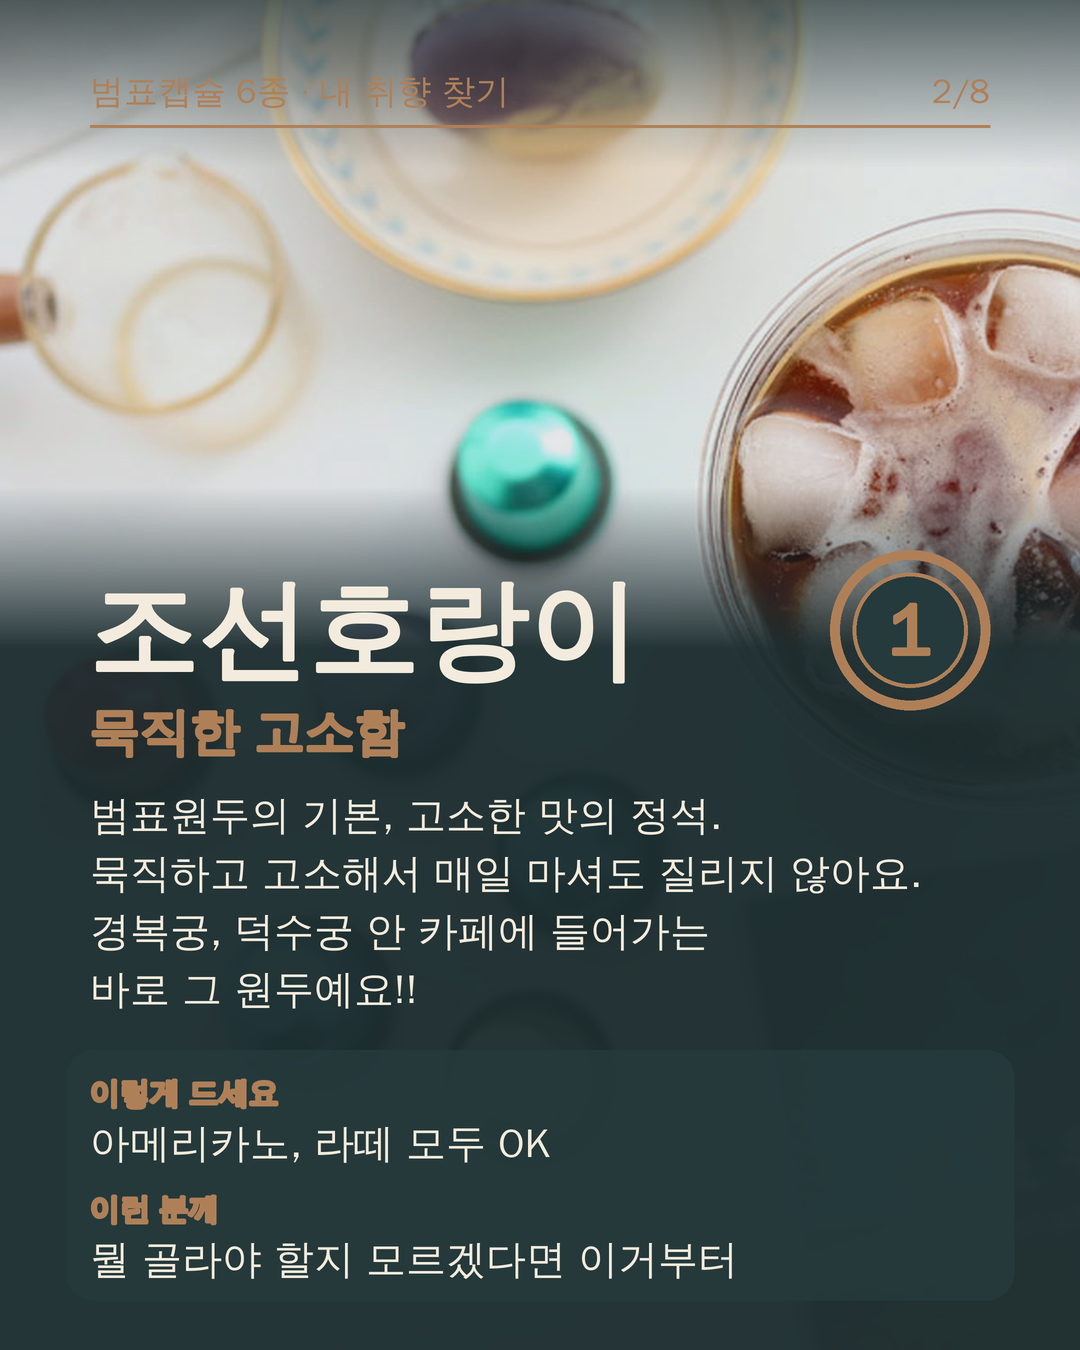
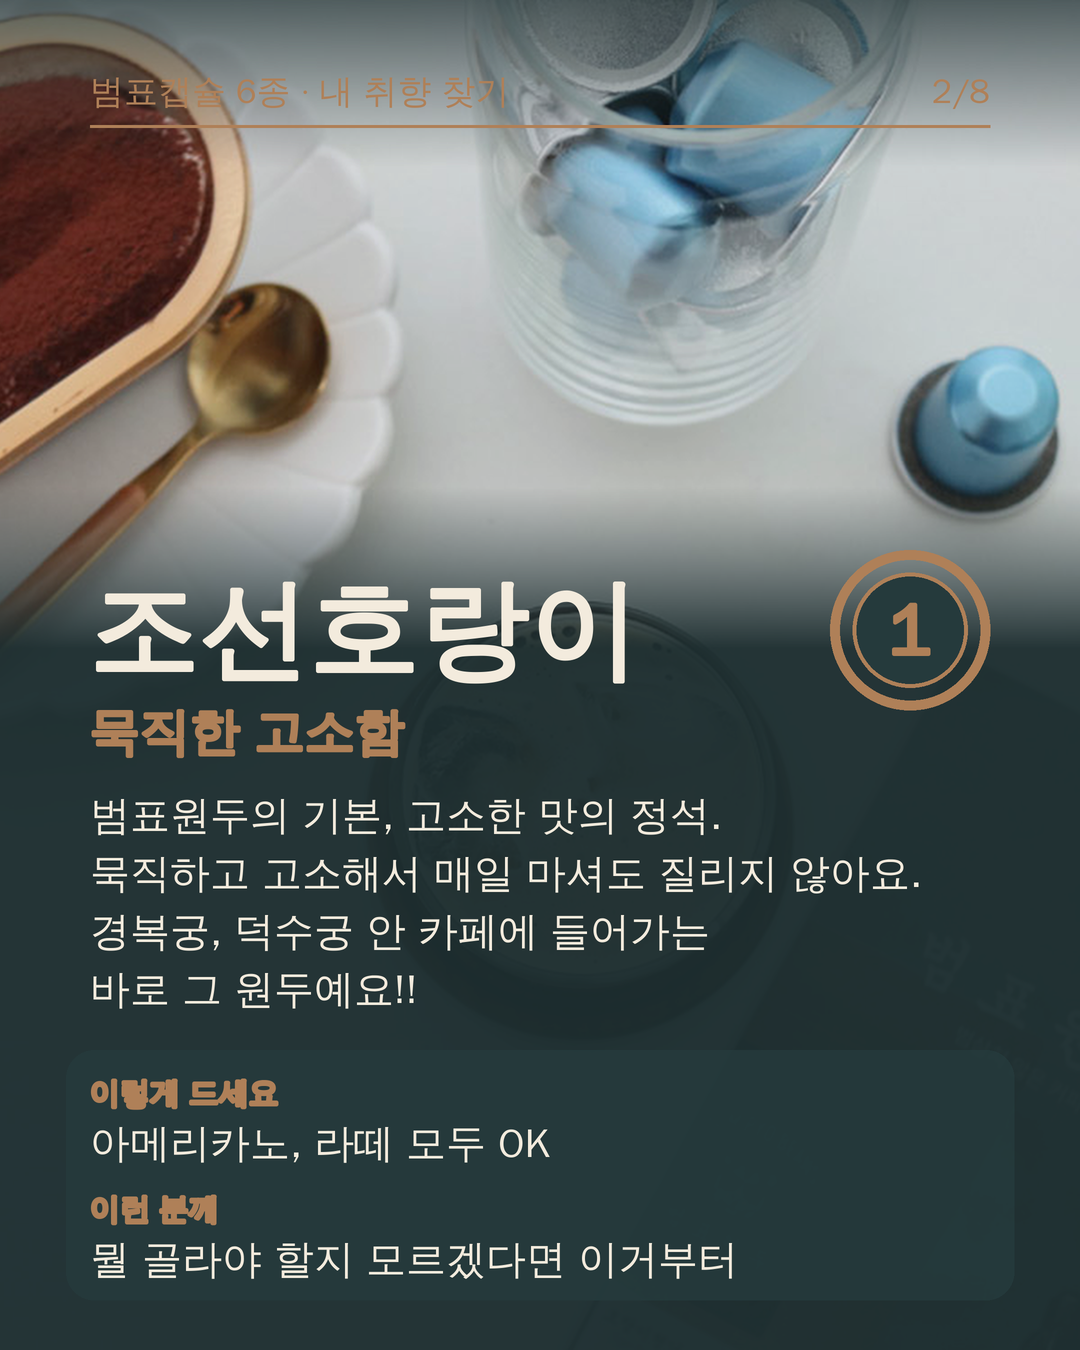
Match carousel photos to capsule colours (green Yeoksam, purple India)
Claude-Session: https://claude.ai/code/session_015nkFFMbZZ1pWpapoeisJCN

Changed region(s): [[0.0, 0.0, 1.0, 0.4667]]

diff --git a/series-covers/make_capsule_carousel.py b/series-covers/make_capsule_carousel.py
@@ -7,8 +7,16 @@ from PIL import Image, ImageDraw, ImageFilter, ImageFont, ImageOps
 OUT = Path(sys.argv[1])
 PHOTOS = Path(sys.argv[2]) if len(sys.argv) > 2 else None   # folder with 9.jpg ... 13.jpg
 # (photo, horizontal focus 0..1) per slide; None keeps the plain background
-BACKS = [("9.jpg", 0.55), ("9.jpg", 0.2), ("10.jpg", 0.5), ("13.jpg", 0.5),
-         ("12.jpg", 0.55), ("9.jpg", 0.85), ("11.jpg", 0.45), ("13.jpg", 0.3)]
+# capsule colours: 역삼동호랑이 = green, 인도호랑이 = purple. Other slides avoid
+# showing a green or purple capsule so no colour points at the wrong flavour.
+BACKS = [("9.jpg", 0.5),            # cover: all colours
+         ("11.jpg", 0.5),           # 조선호랑이
+         ("9.jpg", 0.0),            # 역삼동호랑이: green capsule + iced americano
+         ("11.jpg", 0.0),           # 범프레소: tiramisu
+         ("12.jpg", 1.0),           # 호랑이형님: no capsule in view
+         ("10.jpg", 0.25),          # 인도호랑이: purple capsule + espresso
+         ("10.jpg", 1.0),           # 디카페인: no capsule in view
+         ("13.jpg", 0.3)]           # pick list, blurred
 FONT = "/usr/share/fonts/truetype/wqy/wqy-zenhei.ttc"
 S = 2
 W, H = 1080 * S, 1350 * S

diff --git a/.claude/instagram/voice.md b/.claude/instagram/voice.md
@@ -107,7 +107,7 @@
   - **별내 하나로마트점** (경기 남양주): 연중무휴. 주차 250대, 음료 구매 시 2시간 무료. 매일 10:00–19:00
   - **다산 정약용도서관점** (경기 남양주): 가맹 1호점. 월–금 08:00–19:00, 토·일·공휴일 10:00–19:00 (주말 정상 영업)
   - **수서역점** (서울 강남구): 밤고개로1길 10 1층 현대벤처빌 116-2호. 11/16 오픈 (가오픈 없음). 계정 @bumpyobeans_suseo. 평일 07:00–20:00, 주말 09:00–20:00.
-- **범표캡슐 6종** (알루미늄 캡슐): 조선호랑이(묵직한 고소함. 경복궁·덕수궁 안 카페 납품 원두와 같은 블렌드), 역삼동호랑이(예가체프, 산뜻한 산미. 모닝 캡슐머신 담당자 최애), 범프레소(다크 로스팅 · 다크초콜릿 · 카카오닙 · 구운 아몬드), 호랑이형님(마일드. 범표원두 매장 메인 원두, 따뜻한 아메리카노로 마시면 단맛이 풍부), 인도호랑이(구수한 누룽지. 인도 원두 블렌딩, 산미 없는 맛), 디카페인(카페인 97% 제거).
+- **범표캡슐 6종** (알루미늄 캡슐): 조선호랑이(묵직한 고소함. 경복궁·덕수궁 안 카페 납품 원두와 같은 블렌드), 역삼동호랑이(초록색 캡슐. 예가체프, 산뜻한 산미. 모닝 캡슐머신 담당자 최애), 범프레소(다크 로스팅 · 다크초콜릿 · 카카오닙 · 구운 아몬드), 호랑이형님(마일드. 범표원두 매장 메인 원두, 따뜻한 아메리카노로 마시면 단맛이 풍부), 인도호랑이(보라색 캡슐. 구수한 누룽지. 인도 원두 블렌딩, 산미 없는 맛), 디카페인(카페인 97% 제거).
 - 전국 택배: 오후 2시 전 주문하면 당일 로스팅해서 출고
 - {{추가 예정: 사용자가 자료를 업로드하면 여기에 정리}}
 
